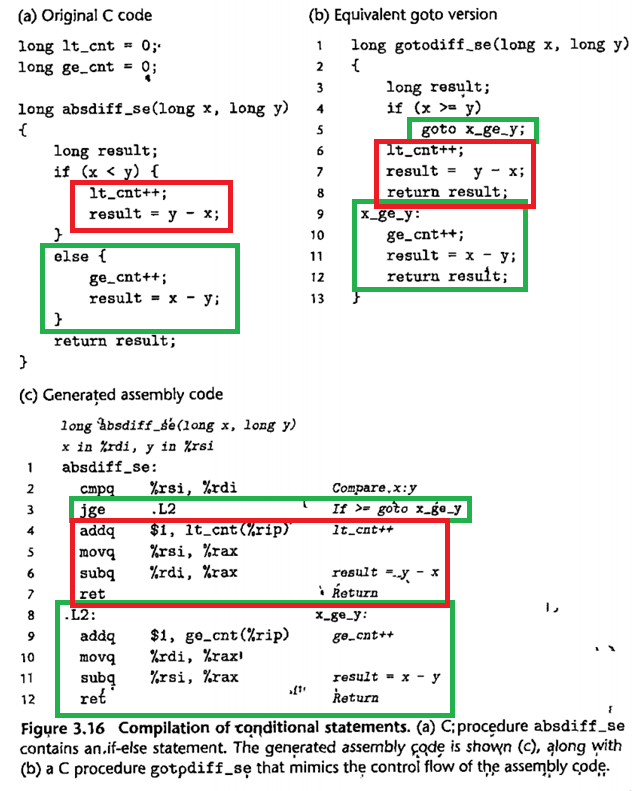
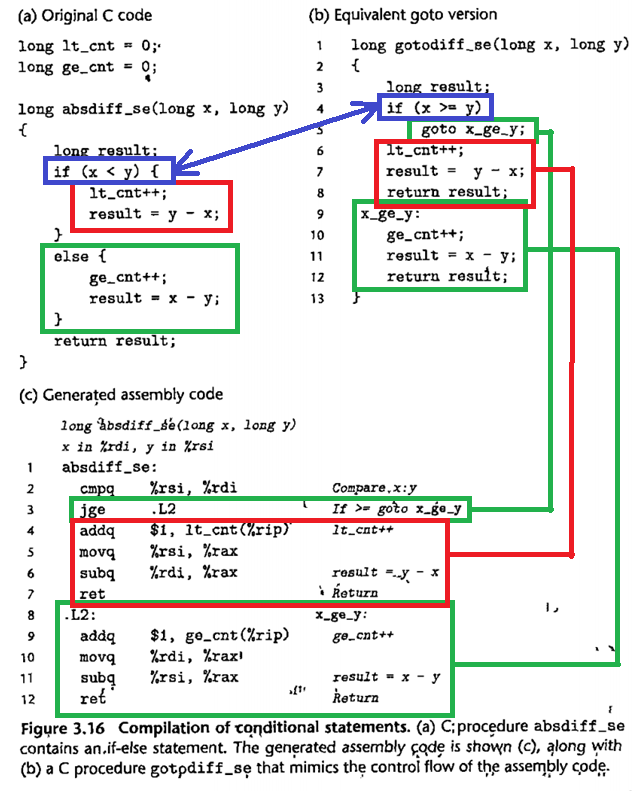
feat: Update CS:APP Ch3

Changed region(s): [[0.7159, 0.1517, 0.9843, 0.8496], [0.0597, 0.091, 0.7755, 0.2427], [0.7159, 0.6979, 0.8948, 0.7282]]

diff --git a/_posts/computer-system/csapp/2026-06-03-csapp-chapter-3.md b/_posts/computer-system/csapp/2026-06-03-csapp-chapter-3.md
@@ -670,10 +670,24 @@ When our C code executes `switch(x)`, the assembly indexes into that array using
 jmp *.L4(,%rax,8)   # Look up array element at (.L4 + %rax * 8) and jump directly to that absolute address
 ```
 
+#### rep and repz
+In the x86 ISA, `rep` (repeat) and `repz` (repeat while zero) were designed to be placed in front of string manipulation instructions like `movs` (move string) or `stos` (store string) to create fast hardware loops. For example, `rep movs` tells the CPU: "Keep copying bytes from memory location A to memory location B, decrementing the `%rcx` register every time, until `%rcx` hits 0."
+
+In modern x86-64, `rep` does nothing. However, it exists to avoid a 1-to-2 clock cycle penalty. Modern CPUs use a **branch predictor** to guess where jumps are going before they even happen. If the jump target and the `ret` instruction share the same pipeline slot or exit logic, the branch predictor can stall (need to predict two massive changes in program flow simultaneously), causing the cycle penalty. To avoid it, the compiler needs to insert an empty instruction between the jump target and the `ret` so the branch predictor has breathing room.
+
+* `nop` could be good here, but it takes up an extra byte of code and requires the CPU decode logic to process an entirely separate instruction.
+* `rep`
+    * To the branch predictor, it shifts the execution alignment just enough to prevent the pipeline stall.
+    * To the CPU decoder, it treats `rep ret` as a single instruction, which is faster to parse than a separate `nop` and `ret`.
+
 ---
 
 ### 3.6.5 Implementing Conditional Branches with Conditional Control
+The most general way to translate conditional expressions and statements from C into machine code is to use combinations of conditional and unconditional jumps.
+
 ![absdiff_se](absdiff_se.png)
+
+`gotodiff_se` uses the `goto` statement in C, which is similar to the unconditional jump of assembly code. We call this style of programming "goto code".
 
 ---
 